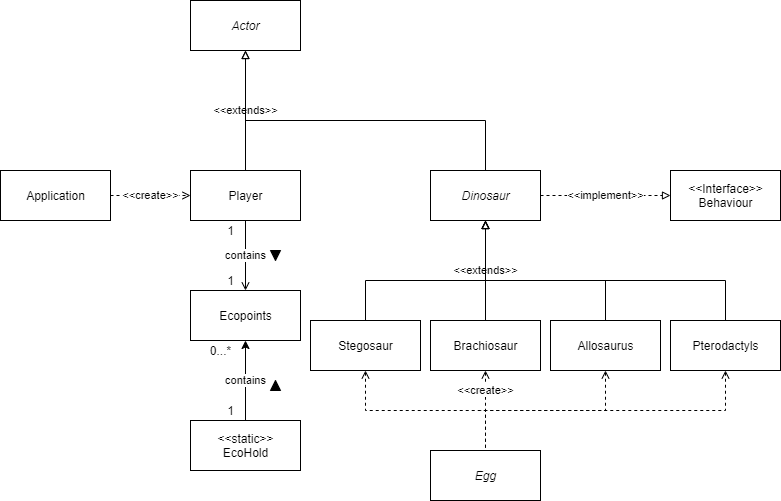
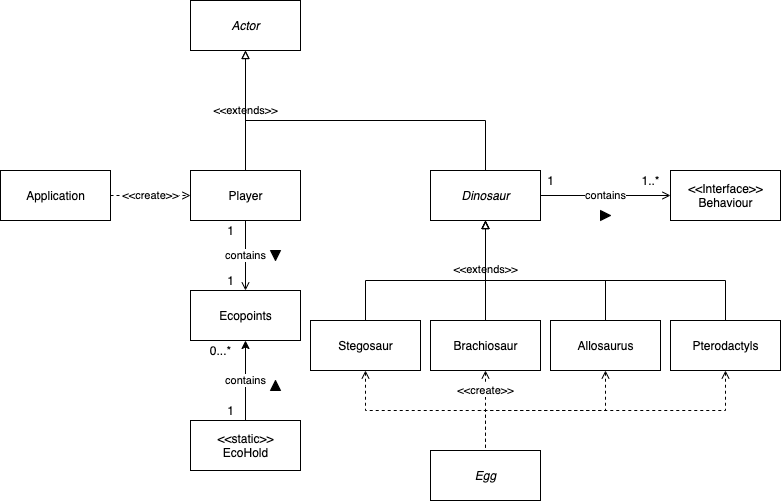
Added new classes and relationships in Behaviour UML, Created New UML for consumables

diff --git a/src/game/actions/DeadAction.java b/src/game/actions/DeadAction.java
@@ -4,12 +4,30 @@ import edu.monash.fit2099.engine.Action;
 import edu.monash.fit2099.engine.Actor;
 import edu.monash.fit2099.engine.GameMap;
 
+/**
+ * Implements an action where dinosaurs die
+ * @author Tim Jordan
+ * @author Enoch Leow
+ * @version 1.0.0
+ * @see Action
+ */
 public class DeadAction extends Action {
+    /**
+     * Shows that actor has died
+     * @param actor The actor performing the action.
+     * @param map The map the actor is on.
+     * @return String
+     */
     @Override
     public String execute(Actor actor, GameMap map) {
         return menuDescription(actor);
     }
 
+    /**
+     * String that says actor has died
+     * @param actor The actor performing the action.
+     * @return String
+     */
     @Override
     public String menuDescription(Actor actor) {
         return actor + " has died";

diff --git a/src/game/actions/AttackAction.java b/src/game/actions/AttackAction.java
@@ -14,8 +14,13 @@ import game.dinosaur.Dinosaur;
 import game.enums.CorpseFactory;
 import game.enums.DinosaurCapabilities;
 
+
 /**
  * Special Action for attacking other Actors.
+ * @author Tim Jordan
+ * @author Enoch Leow
+ * @version 1.0.0
+ * @see Action
  */
 public class AttackAction extends Action {
 

diff --git a/src/game/actions/DrinkLakeAction.java b/src/game/actions/DrinkLakeAction.java
@@ -17,7 +17,6 @@ import game.ground.Lake;
  * @see Action
  */
 public class DrinkLakeAction extends Action {
-
     private Lake lake;
 
     public DrinkLakeAction(Lake lake) {

diff --git a/src/game/LaserGun.java b/src/game/LaserGun.java
@@ -2,6 +2,7 @@ package game;
 
 import edu.monash.fit2099.engine.WeaponItem;
 
+
 public class LaserGun extends WeaponItem {
     /**
      * Constructor.
